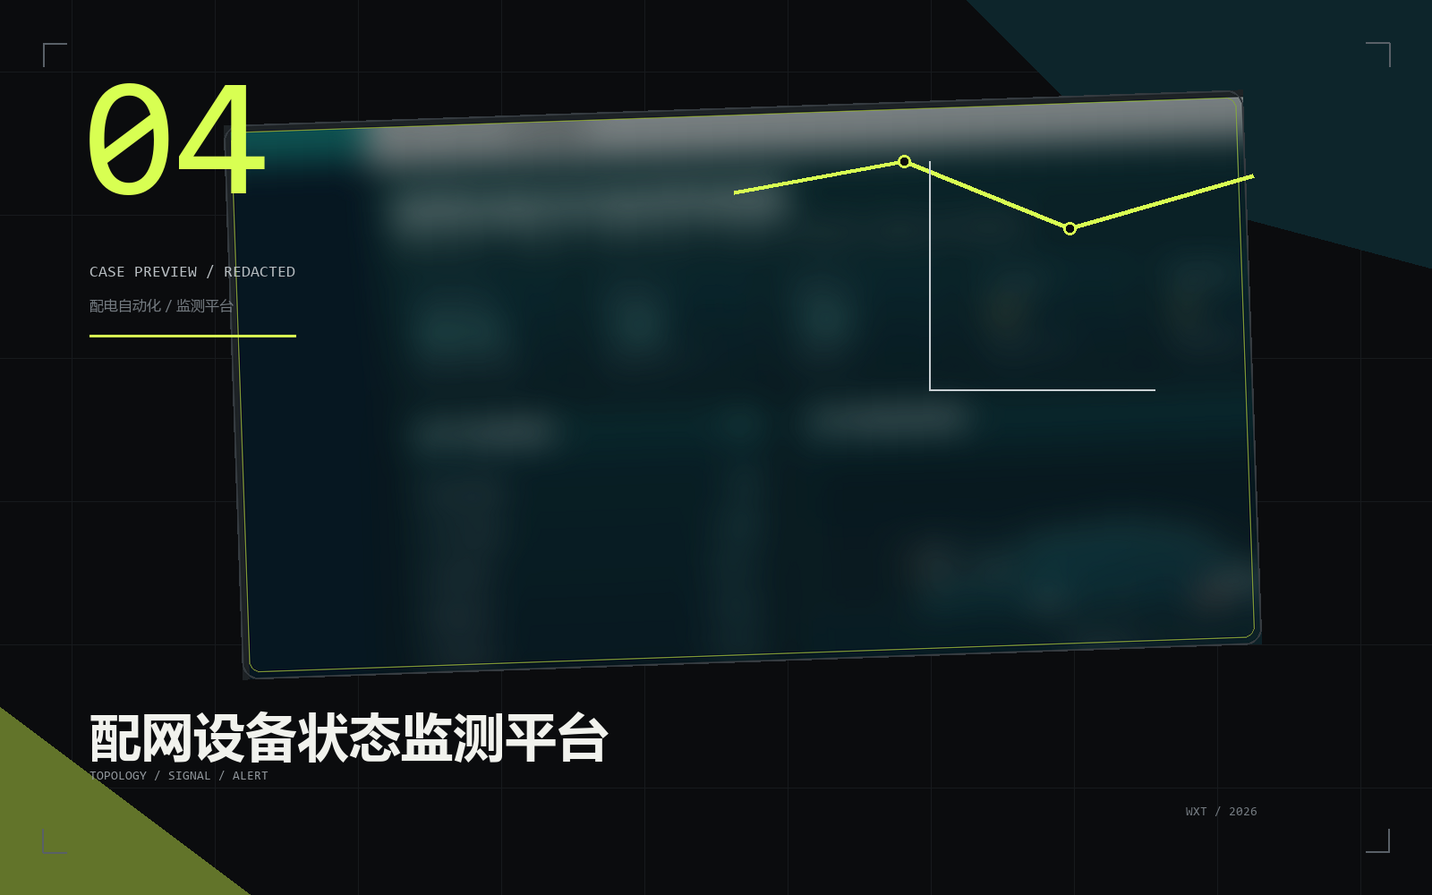
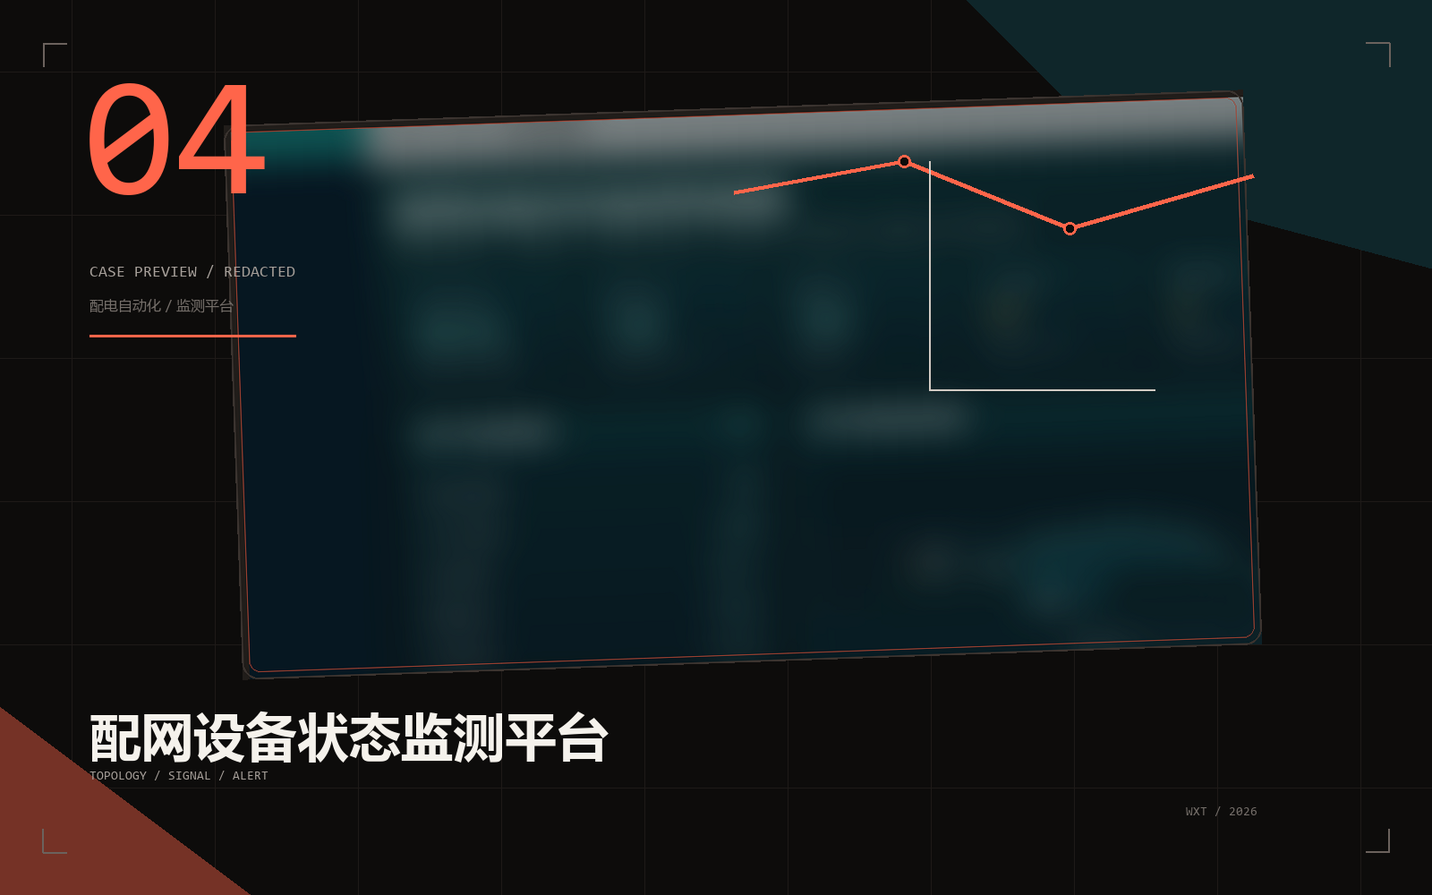
Refresh portfolio color system

diff --git a/public/portfolio/assets/index-D8gVBDSc.css b/public/portfolio/assets/index-D8gVBDSc.css
@@ -1,0 +1,1 @@
+@font-face{font-family:Source Han Sans SC;src:url(../fonts/source-han-sans-sc-subset.ttf)format("truetype");font-style:normal;font-weight:100 900;font-display:swap}:root{color:#f5f2ec;font-synthesis:none;text-rendering:optimizelegibility;-webkit-font-smoothing:antialiased;--page:#0d0c0b;--surface:#151311;--surface-high:#1e1a18;--ink:#f5f2ec;--muted:#a7a09a;--quiet:#746e69;--line:#302b28;--accent:#ff654a;--accent-hover:#ff806b;--accent-ink:#18100d;--accent-line:#69382f;--mono:"SFMono-Regular", "Cascadia Code", Consolas, monospace;--radius:8px;--page-width:1480px;--gutter:clamp(20px, 4vw, 64px);background:#0d0c0b;font-family:Source Han Sans SC,Avenir Next,PingFang SC,sans-serif}*{box-sizing:border-box}html{scroll-behavior:smooth;background:var(--page)}body{background:var(--page);min-width:320px;margin:0}body.modal-open{overflow:hidden}body,button,a{font:inherit}button{appearance:none;border:0}a{color:inherit;text-decoration:none}img{max-width:100%}button:focus-visible,a:focus-visible{outline:2px solid var(--accent);outline-offset:5px}::selection{color:var(--page);background:var(--accent)}.portfolio-shell,.portfolio-page{background:var(--page);min-height:100dvh}.portfolio-page{overflow:clip}.site-header,main>section,.site-footer{width:min(calc(100% - (var(--gutter) * 2)), var(--page-width));margin-inline:auto}.site-header{z-index:10;width:100%;height:72px;padding-inline:max(var(--gutter), calc((100vw - var(--page-width)) / 2));border-bottom:1px solid color-mix(in srgb, var(--line) 72%, transparent);background:color-mix(in srgb, var(--page) 86%, transparent);-webkit-backdrop-filter:blur(18px)saturate(115%);justify-content:space-between;align-items:center;display:flex;position:fixed;inset:0 0 auto}html.is-embedded .site-header{padding-right:max(calc(var(--gutter) + 58px), calc((100vw - var(--page-width)) / 2 + 58px))}.brand-mark{flex-direction:column;gap:5px;width:max-content;display:inline-flex}.brand-mark span{font-size:16px;font-weight:720;line-height:1}.brand-mark small,.hero-label,.project-info>div>span,.case-type,.case-section-label{font-family:var(--mono);letter-spacing:0}.brand-mark small{color:var(--quiet);font-size:9px}.desktop-nav{color:var(--muted);align-items:center;gap:28px;font-size:12px;display:flex}.desktop-nav>a{align-items:center;min-height:42px;transition:color .22s;display:inline-flex;position:relative}.desktop-nav>a:after{content:"";background:var(--accent);transform-origin:100%;height:1px;transition:transform .26s cubic-bezier(.16,1,.3,1);position:absolute;bottom:7px;left:0;right:0;transform:scaleX(0)}.desktop-nav>a:hover,.desktop-nav>a.is-active{color:var(--ink)}.desktop-nav>a:hover:after,.desktop-nav>a.is-active:after{transform-origin:0;transform:scaleX(1)}.header-icon-link{border:1px solid var(--line);border-radius:var(--radius);justify-content:center;width:42px}.header-icon-link:after{display:none}.header-icon-link:hover{border-color:var(--accent-line);color:var(--accent)!important}.menu-button{border-radius:var(--radius);width:44px;height:44px;color:var(--ink);cursor:pointer;background:0 0;place-items:center;padding:0;display:none}.mobile-menu{display:none}.hero-section{grid-template-columns:minmax(0,.94fr) minmax(460px,1.06fr);align-items:center;gap:clamp(56px,7vw,118px);min-height:100dvh;padding-top:118px;padding-bottom:46px;display:grid}.hero-copy{z-index:2;max-width:780px;position:relative}.hero-label{color:var(--muted);margin:0 0 24px;font-size:10px}.hero-section h1{letter-spacing:0;text-wrap:balance;margin:0;font-size:clamp(56px,5.5vw,94px);font-weight:720;line-height:.98}.hero-section h1 .hero-line{white-space:nowrap;color:var(--ink);display:inline-block}.hero-section h1 .hero-line strong{color:var(--accent);font-weight:inherit}.hero-summary{max-width:500px;color:var(--muted);text-wrap:pretty;margin:34px 0 0;font-size:clamp(16px,1.3vw,19px);line-height:1.75}.hero-actions{align-items:center;gap:26px;margin-top:36px;display:flex}.primary-link{border-radius:var(--radius);background:var(--accent);min-width:150px;min-height:50px;color:var(--accent-ink);justify-content:space-between;align-items:center;gap:18px;padding:0 19px;font-size:13px;font-weight:700;transition:transform .22s,background .22s;display:inline-flex}.primary-link:hover{background:var(--accent-hover);transform:translateY(-3px)}.primary-link:active{transform:translateY(-1px)scale(.985)}.text-link{min-height:44px;color:var(--muted);align-items:center;font-size:13px;transition:color .22s;display:inline-flex}.text-link:hover{color:var(--ink)}.hero-visual{perspective:1300px;isolation:isolate;min-height:min(640px,72dvh);position:relative}.hero-frame{border:1px solid var(--line);border-radius:var(--radius);background:var(--surface);position:absolute;overflow:hidden;box-shadow:0 34px 84px #00000047}.hero-frame img{object-fit:cover;width:100%;height:100%;display:block}.hero-frame-back{opacity:.56;width:76%;height:62%;top:7%;right:4%;transform:rotate(4deg)translateZ(-30px)}.hero-frame-back img{filter:grayscale(.5)brightness(.64);object-position:50% 42%}.hero-frame-front{width:82%;height:69%;transition:transform .62s cubic-bezier(.16,1,.3,1);bottom:4%;right:11%;transform:rotate(-3deg)}.hero-frame-front:hover{transform:translateY(-10px)rotate(-1deg)}.hero-frame-front img{object-position:50% 18%;filter:brightness(.84)saturate(.82);height:calc(100% - 78px)}.hero-frame-caption{background:var(--ink);height:78px;color:var(--page);flex-direction:column;justify-content:center;padding:15px 19px;display:flex}.hero-frame-caption span{font-family:var(--mono);color:var(--quiet);font-size:8px}.hero-frame-caption strong{letter-spacing:0;margin-top:4px;font-size:24px;line-height:1}.hero-visual-index{color:var(--quiet);font-family:var(--mono);font-size:9px;position:absolute;bottom:0;right:0}[data-enter]{opacity:0;animation:.76s cubic-bezier(.16,1,.3,1) forwards enter-up}[data-enter]:nth-child(2){animation-delay:80ms}[data-enter]:nth-child(3){animation-delay:.15s}[data-enter]:nth-child(4){animation-delay:.22s}.hero-visual[data-enter]{animation-delay:.17s}@keyframes enter-up{0%{opacity:0;transform:translateY(20px)}to{opacity:1;transform:translateY(0)}}.about-section{border-top:1px solid var(--line);border-bottom:1px solid var(--line);grid-template-columns:minmax(0,1.08fr) minmax(380px,.92fr);align-items:center;gap:clamp(64px,11vw,180px);min-height:100dvh;padding-block:clamp(120px,15vw,220px);display:grid;position:relative}.about-number{color:var(--surface-high);pointer-events:none;font-size:clamp(180px,27vw,420px);font-weight:800;line-height:1;position:absolute;top:5%;right:-2vw}.about-heading,.about-body{z-index:1;position:relative}.about-heading h2{letter-spacing:0;text-wrap:balance;margin:0;font-size:clamp(48px,5.6vw,86px);font-weight:650;line-height:1.08}.about-body{max-width:650px}.about-body>p{color:var(--muted);text-wrap:pretty;margin:0;font-size:16px;line-height:1.9}.about-body .about-lead{color:var(--ink);font-size:clamp(22px,2.1vw,32px);font-weight:540;line-height:1.55}.about-body .about-lead+p{margin-top:27px}.capability-list{border-top:1px solid var(--line);margin-top:48px}.capability-list>div{border-bottom:1px solid var(--line);grid-template-columns:54px 1fr;align-items:center;min-height:66px;display:grid}.capability-list span{color:var(--accent);font-family:var(--mono);font-size:10px}.capability-list strong{font-size:14px;font-weight:500}[data-reveal]{opacity:0;transition:opacity .76s,transform .76s cubic-bezier(.16,1,.3,1);transform:translateY(28px)}[data-reveal].is-visible{opacity:1;transform:translateY(0)}.projects-section{padding-top:clamp(112px,13vw,188px)}.projects-heading{margin-bottom:62px}.projects-heading h2{letter-spacing:0;margin:0;font-size:clamp(72px,11vw,172px);font-weight:720;line-height:.82}.projects-heading p{max-width:520px;color:var(--muted);margin:34px 0 0;font-size:15px;line-height:1.75}.project-group+.project-group{margin-top:86px}.project-group-heading{border-top:1px solid var(--line);min-height:38px;color:var(--ink);font-family:var(--mono);letter-spacing:0;text-transform:uppercase;justify-content:space-between;align-items:center;margin-bottom:26px;font-size:10px;display:flex}.project-group-heading small{color:var(--quiet);font-size:9px}.ui-reserve{border-bottom:1px solid var(--line);grid-template-columns:minmax(150px,.7fr) minmax(300px,1.35fr) minmax(180px,.7fr);align-items:end;gap:clamp(28px,5vw,78px);min-height:300px;padding:clamp(30px,4vw,58px) 0;display:grid}.ui-reserve-mark{color:var(--surface-high);font-family:var(--mono);font-size:clamp(104px,14vw,210px);font-weight:700;line-height:.72}.ui-reserve-copy>span{color:var(--accent);font-family:var(--mono);font-size:9px}.ui-reserve-copy h3{letter-spacing:0;text-wrap:pretty;max-width:620px;margin:15px 0 0;font-size:clamp(29px,3.6vw,52px);font-weight:600;line-height:1.12}.ui-reserve-copy p{max-width:560px;color:var(--muted);margin:20px 0 0;font-size:13px;line-height:1.75}.ui-reserve-fields{align-content:end;align-self:stretch;display:grid}.ui-reserve-fields span{border-bottom:1px solid var(--line);min-height:42px;color:var(--quiet);font-family:var(--mono);align-items:center;font-size:9px;display:flex}.projects-grid{grid-template-columns:repeat(12,minmax(0,1fr));align-items:start;gap:18px;display:grid}.project-card{min-width:0}.project-card-wide{grid-column:span 7}.project-card-standard{grid-column:span 5}.project-card-feature{grid-column:3/span 8;margin-top:42px}.project-card:nth-child(2){margin-top:72px}.project-card:nth-child(4){margin-top:70px}.project-card>button{border-radius:var(--radius);width:100%;color:var(--ink);text-align:left;cursor:pointer;background:0 0;padding:0;display:block}.project-image{aspect-ratio:1.6;border:1px solid var(--line);border-radius:var(--radius);background:var(--surface);position:relative;overflow:hidden}.project-image img{object-fit:cover;filter:saturate(.9)brightness(.9);width:100%;height:100%;transition:transform .7s cubic-bezier(.16,1,.3,1),filter .5s;display:block}.project-image-shade{pointer-events:none;background:linear-gradient(#0000 45%,#09080773);position:absolute;inset:0}.project-info{grid-template-columns:minmax(0,1fr) 44px;column-gap:22px;padding:20px 1px 42px;display:grid;position:relative}.project-info>div>span{color:var(--muted);font-size:9px;display:block}.project-info h3{letter-spacing:0;text-wrap:pretty;margin:9px 0 0;font-size:clamp(25px,2.7vw,39px);font-weight:600;line-height:1.1}.project-info p{max-width:560px;color:var(--muted);text-wrap:pretty;grid-column:1/2;margin:16px 0 0;font-size:13px;line-height:1.7}.project-arrow{border:1px solid var(--line);border-radius:var(--radius);place-items:center;width:42px;height:42px;transition:transform .28s,color .28s,border-color .28s,background .28s;display:grid}.project-card>button:hover .project-image img{filter:saturate()brightness();transform:scale(1.025)}.project-card>button:hover .project-arrow{color:var(--page);border-color:var(--accent);background:var(--accent);transform:translate(2px,-2px)}.project-card>button:active .project-arrow{transform:translate(1px,-1px)scale(.96)}.site-footer{border-top:1px solid var(--line);grid-template-columns:1fr auto 1fr;align-items:end;gap:28px;margin-top:110px;padding-block:36px 44px;display:grid}.site-footer p{color:var(--quiet);margin:0;font-size:11px}.site-footer>a{color:var(--muted);justify-self:end;align-items:center;gap:7px;font-size:12px;transition:color .22s;display:inline-flex}.site-footer>a:hover{color:var(--accent)}.case-study{z-index:30;background:var(--page);animation:.26s both case-fade;position:fixed;inset:0}.case-study-scroll{overscroll-behavior:contain;scroll-behavior:smooth;height:100dvh;overflow:hidden auto}.case-close{z-index:34;border:1px solid var(--line);border-radius:var(--radius);width:48px;height:48px;color:var(--ink);cursor:pointer;-webkit-backdrop-filter:blur(12px);backdrop-filter:blur(12px);background:#0d0c0be0;place-items:center;padding:0;transition:color .22s,border-color .22s,transform .22s,background .22s;display:grid;position:fixed;top:18px;right:22px}.case-close:hover{color:var(--page);border-color:var(--accent);background:var(--accent);transform:rotate(4deg)}html.is-embedded .case-close{right:78px}.case-hero{width:min(calc(100% - (var(--gutter) * 2)), var(--page-width));grid-template-columns:minmax(360px,.82fr) minmax(520px,1.18fr);align-items:center;gap:76px;min-height:100dvh;margin-inline:auto;padding:112px 0 72px;display:grid}.case-hero-copy{max-width:650px;animation:.62s cubic-bezier(.16,1,.3,1) both case-copy-in}.case-hero-meta{border-bottom:1px solid var(--line);color:var(--quiet);font-family:var(--mono);justify-content:space-between;gap:24px;padding-bottom:16px;font-size:9px;display:flex}.case-type{color:var(--accent);margin:50px 0 0;font-size:10px}.case-hero h2{letter-spacing:0;text-wrap:balance;max-width:720px;margin:18px 0 0;font-size:72px;font-weight:680;line-height:1.04}.case-description{max-width:580px;color:var(--muted);text-wrap:pretty;margin:30px 0 0;font-size:16px;line-height:1.85}.case-jump{border-bottom:1px solid var(--accent);width:max-content;min-height:48px;color:var(--ink);align-items:center;gap:18px;margin-top:38px;font-size:12px;transition:color .22s,gap .22s;display:inline-flex}.case-jump:hover{color:var(--accent);gap:24px}.case-hero-visual{aspect-ratio:1.6;border:1px solid var(--line);border-radius:var(--radius);background:var(--surface);margin:0;animation:.76s cubic-bezier(.16,1,.3,1) 80ms both case-visual-in;position:relative;overflow:hidden}.case-hero-visual img{object-fit:cover;filter:saturate(.9)brightness(.88);width:100%;height:100%;display:block}.case-hero-index{display:none}.case-content{width:min(calc(100% - (var(--gutter) * 2)), var(--page-width));margin-inline:auto}.case-content>section{border-top:1px solid var(--line);padding-block:132px}.case-section-label{min-height:38px;color:var(--quiet);grid-template-columns:74px 1fr;align-items:start;margin-bottom:72px;font-size:9px;display:grid}.case-section-label span{color:var(--accent)}.case-section-label p{margin:0}.case-overview-grid{grid-template-columns:minmax(0,1.04fr) minmax(380px,.96fr);gap:100px;display:grid}.case-overview-grid h3{letter-spacing:0;text-wrap:balance;max-width:700px;margin:0;font-size:46px;font-weight:580;line-height:1.3}.case-overview-grid>div>p{color:var(--muted);text-wrap:pretty;margin:0;font-size:16px;line-height:1.95}.case-facts{border-top:1px solid var(--line);margin:54px 0 0}.case-facts>div{border-bottom:1px solid var(--line);grid-template-columns:90px 1fr;align-items:center;gap:24px;min-height:58px;display:grid}.case-facts dt{color:var(--quiet);font-family:var(--mono);font-size:9px}.case-facts dd{color:var(--ink);margin:0;font-size:12px;line-height:1.6}.case-problem-list{border-top:1px solid var(--line)}.case-problem{border-bottom:1px solid var(--line);grid-template-columns:74px minmax(260px,.7fr) minmax(340px,1.3fr);align-items:center;gap:42px;min-height:156px;display:grid}.case-problem>span{color:var(--accent);font-family:var(--mono);font-size:11px}.case-problem h3{letter-spacing:0;margin:0;font-size:28px;font-weight:580;line-height:1.3}.case-problem p{max-width:720px;color:var(--muted);margin:0;font-size:14px;line-height:1.8}.case-highlight-grid{grid-template-columns:1.2fr .9fr 1.1fr;align-items:start;gap:24px;display:grid}.case-highlight{border-top:1px solid var(--line);border-bottom:1px solid var(--line);flex-direction:column;justify-content:space-between;min-height:330px;padding:25px 0 30px;display:flex}.case-highlight:nth-child(2){margin-top:78px}.case-highlight>span{color:var(--surface-high);font-family:var(--mono);font-size:82px;line-height:1}.case-highlight h3{color:var(--accent);letter-spacing:0;margin:0;font-size:25px;font-weight:600;line-height:1.25}.case-highlight p{max-width:390px;color:var(--muted);margin:15px 0 0;font-size:13px;line-height:1.8}.case-screen-list{gap:154px;display:grid}.case-screen{grid-template-columns:minmax(0,1.45fr) minmax(280px,.55fr);align-items:end;gap:66px;display:grid}.case-screen:nth-child(2n){grid-template-columns:minmax(280px,.55fr) minmax(0,1.45fr)}.case-screen:nth-child(2n) .case-screen-visual{grid-column:2}.case-screen:nth-child(2n) .case-screen-copy{grid-area:1/1}.case-screen-visual{aspect-ratio:16/9;border:1px solid var(--line);border-radius:var(--radius);background:var(--surface);margin:0;position:relative;overflow:hidden}.case-screen-visual img{object-fit:cover;width:100%;height:100%;display:block}.case-screen-visual figcaption{min-width:54px;color:var(--accent);font-family:var(--mono);text-align:center;-webkit-backdrop-filter:blur(8px);backdrop-filter:blur(8px);background:#0d0c0bc7;border:1px solid #f5f2ec38;border-radius:4px;padding:7px 9px;font-size:9px;position:absolute;bottom:12px;right:14px}.case-screen-copy{padding-bottom:18px}.case-screen-copy>span{color:var(--accent);font-family:var(--mono);font-size:9px}.case-screen-copy h3{letter-spacing:0;text-wrap:balance;margin:17px 0 0;font-size:34px;font-weight:600;line-height:1.3}.case-screen-copy p{color:var(--muted);text-wrap:pretty;margin:22px 0 0;font-size:14px;line-height:1.85}.case-project-nav{border-top:1px solid var(--line);grid-template-columns:1fr 1fr;margin-top:28px;display:grid}.case-project-nav button{border-bottom:1px solid var(--line);min-height:132px;color:var(--ink);cursor:pointer;background:0 0;align-items:center;gap:18px;padding:0 28px;transition:color .22s,background .22s;display:flex}.case-project-nav button:last-child{border-left:1px solid var(--line);justify-content:flex-end}.case-project-nav button:hover{color:var(--accent);background:var(--surface)}.case-project-nav span{font-size:13px}@keyframes case-fade{0%{opacity:0}to{opacity:1}}@keyframes case-copy-in{0%{opacity:0;transform:translateY(22px)}to{opacity:1;transform:translateY(0)}}@keyframes case-visual-in{0%{opacity:0;transform:translateY(28px)rotate(1.5deg)}to{opacity:1;transform:translateY(0)rotate(0)}}@media (width<=1080px){.hero-section{grid-template-columns:1fr;gap:52px;padding-top:148px;padding-bottom:90px}.hero-copy{max-width:850px}.hero-visual{width:min(100%,760px);min-height:570px;margin-left:auto}.about-section{grid-template-columns:1fr;align-content:center;gap:58px}.about-heading{max-width:820px}.about-body{margin-left:min(18vw,170px)}.project-card-wide,.project-card-standard{grid-column:span 6}.project-card-feature{grid-column:2/span 10}.case-hero{grid-template-columns:1fr;gap:58px;min-height:auto;padding-top:132px}.case-hero-copy{max-width:820px}.case-hero h2{max-width:850px;font-size:64px}.case-hero-visual{width:min(100%,880px);margin-left:auto}.case-overview-grid{grid-template-columns:1fr;gap:54px}.case-overview-grid>div{width:min(100%,720px);margin-left:auto}.case-problem{grid-template-columns:64px minmax(220px,.75fr) minmax(300px,1.25fr);gap:28px}.case-screen{grid-template-columns:minmax(0,1.25fr) minmax(260px,.75fr);gap:40px}.case-screen:nth-child(2n){grid-template-columns:minmax(260px,.75fr) minmax(0,1.25fr)}}@media (width<=720px){:root{--gutter:18px}.site-header{height:66px}.desktop-nav{display:none}.menu-button{display:grid}.mobile-menu{z-index:-1;padding:24px var(--gutter) 36px;border-bottom:1px solid var(--line);opacity:0;pointer-events:none;background:#0d0c0bfa;transition:opacity .22s,transform .3s cubic-bezier(.16,1,.3,1);display:grid;position:fixed;inset:66px 0 auto;transform:translateY(-16px)}.mobile-menu.is-open{opacity:1;pointer-events:auto;transform:translateY(0)}.mobile-menu a{border-bottom:1px solid var(--line);justify-content:space-between;align-items:center;min-height:58px;font-size:20px;font-weight:600;display:flex}.hero-section{gap:44px;min-height:100dvh;padding-top:112px;padding-bottom:62px}.hero-label{margin-bottom:18px;font-size:9px}.hero-section h1{font-size:43px;line-height:1.06}.hero-section h1 .hero-line{white-space:normal}.hero-section h1 .hero-line strong{display:block}.hero-summary{width:min(100%,330px);margin-top:24px;font-size:15px}.hero-actions{margin-top:27px}.hero-visual{min-height:360px}.hero-frame-back{width:78%;height:58%}.hero-frame-front{width:87%;height:68%;right:6%}.hero-frame-front img{height:calc(100% - 62px)}.hero-frame-caption{height:62px;padding:11px 14px}.hero-frame-caption strong{font-size:19px}.about-section{gap:43px;min-height:auto;padding-block:104px}.about-number{font-size:180px;top:11%}.about-heading h2{font-size:clamp(41px,12vw,56px)}.about-body{margin-left:0}.about-body .about-lead{font-size:21px}.about-body>p{font-size:14px}.capability-list{margin-top:38px}.projects-section{padding-top:106px}.projects-heading{margin-bottom:44px}.projects-heading h2{font-size:clamp(66px,20vw,100px)}.projects-heading p{margin-top:26px;font-size:14px}.project-group+.project-group{margin-top:58px}.project-group-heading{margin-bottom:18px}.ui-reserve{grid-template-columns:1fr;align-items:start;gap:32px;min-height:0;padding:26px 0 38px}.ui-reserve-mark{font-size:112px}.ui-reserve-copy h3{font-size:31px}.ui-reserve-fields{grid-template-columns:1fr 1fr;align-self:auto}.ui-reserve-fields span:nth-child(odd){border-right:1px solid var(--line)}.ui-reserve-fields span:nth-child(2n){padding-left:18px}.projects-grid{display:block}.project-card,.project-card:nth-child(n){margin-top:18px}.project-card:first-child{margin-top:0}.project-image{aspect-ratio:1.6}.project-info{padding-bottom:28px}.project-info h3{font-size:27px}.project-info p{font-size:12px}.site-footer{grid-template-columns:1fr auto;margin-top:70px}.site-footer p{display:none}.case-close,html.is-embedded .case-close{width:44px;height:44px;top:12px;right:14px}.case-hero{width:calc(100% - (var(--gutter) * 2));gap:42px;padding:92px 0 62px}.case-hero-meta{padding-right:54px}.case-type{margin-top:36px}.case-hero h2{margin-top:14px;font-size:42px;line-height:1.12}.case-description{margin-top:22px;font-size:14px}.case-jump{margin-top:26px}.case-hero-index{font-size:76px;top:-10px;left:10px}.case-content{width:calc(100% - (var(--gutter) * 2))}.case-content>section{padding-block:86px}.case-section-label{grid-template-columns:52px 1fr;margin-bottom:42px}.case-overview-grid h3{font-size:31px;line-height:1.38}.case-overview-grid>div>p{font-size:14px;line-height:1.85}.case-facts{margin-top:38px}.case-facts>div{grid-template-columns:76px 1fr;gap:18px;min-height:66px}.case-problem{grid-template-columns:42px 1fr;align-items:start;gap:10px;min-height:0;padding:28px 0 32px}.case-problem h3{font-size:22px}.case-problem p{grid-column:2;margin-top:4px;font-size:13px}.case-highlight-grid{grid-template-columns:1fr;gap:0}.case-highlight,.case-highlight:nth-child(2){min-height:220px;margin-top:0}.case-highlight>span{font-size:62px}.case-screen-list{gap:82px}.case-screen,.case-screen:nth-child(2n){grid-template-columns:1fr;gap:27px}.case-screen:nth-child(2n) .case-screen-visual,.case-screen:nth-child(2n) .case-screen-copy{grid-area:auto/1}.case-screen-copy{padding-bottom:0}.case-screen-copy h3{margin-top:12px;font-size:27px}.case-screen-copy p{margin-top:16px;font-size:13px}.case-project-nav{margin-top:0}.case-project-nav button{min-height:94px;padding:0 14px}}@media (prefers-reduced-motion:reduce){html{scroll-behavior:auto}*,:before,:after{transition-duration:.01ms!important;animation-duration:.01ms!important;animation-iteration-count:1!important}[data-enter],[data-reveal]{opacity:1;transform:none}}@media (prefers-reduced-transparency:reduce){.site-header,.case-close,.case-screen-visual figcaption{-webkit-backdrop-filter:none}.site-header{background:var(--page)}}

diff --git a/src/styles.css b/src/styles.css
@@ -358,11 +358,11 @@ button:focus-visible {
   width: min(1440px, calc(100vw - 44px));
   height: min(920px, calc(100dvh - 44px));
   overflow: hidden;
-  border: 1px solid rgb(241 242 237 / 18%);
+  border: 1px solid rgb(245 242 236 / 18%);
   border-radius: 8px;
-  background: #0b0c0e;
+  background: #0d0c0b;
   box-shadow: 0 42px 120px rgb(0 0 0 / 42%);
-  color: #f1f2ed;
+  color: #f5f2ec;
   transform: translateY(5vh) scale(.36);
   transform-origin: 50% 44%;
   transition: transform 760ms cubic-bezier(.16,.84,.24,1);
@@ -375,7 +375,7 @@ button:focus-visible {
   height: 100%;
   display: block;
   border: 0;
-  background: #0b0c0e;
+  background: #0d0c0b;
   opacity: 0;
   transition: opacity 420ms ease;
 }
@@ -390,8 +390,8 @@ button:focus-visible {
   place-content: center;
   justify-items: center;
   gap: 18px;
-  background: #0b0c0e;
-  color: #9b9fa4;
+  background: #0d0c0b;
+  color: #a7a09a;
   transition: opacity 260ms ease, visibility 260ms ease;
 }
 
@@ -399,7 +399,7 @@ button:focus-visible {
   width: 84px;
   height: 2px;
   overflow: hidden;
-  background: rgb(216 255 82 / 16%);
+  background: rgb(255 101 74 / 16%);
 }
 
 .portfolio-loading span::after {
@@ -407,7 +407,7 @@ button:focus-visible {
   display: block;
   width: 100%;
   height: 100%;
-  background: #d8ff52;
+  background: #ff654a;
   transform-origin: left;
   animation: portfolio-loading 1.1s cubic-bezier(.16, 1, .3, 1) infinite;
 }
@@ -423,10 +423,10 @@ button:focus-visible {
   width: 44px;
   height: 44px;
   padding: 0;
-  border: 1px solid rgb(241 242 237 / 22%);
+  border: 1px solid rgb(245 242 236 / 22%);
   border-radius: 8px;
-  background: rgb(11 12 14 / 78%);
-  color: #f1f2ed;
+  background: rgb(13 12 11 / 78%);
+  color: #f5f2ec;
   cursor: pointer;
   font-size: 24px;
   line-height: 1;
@@ -435,9 +435,9 @@ button:focus-visible {
 }
 
 .portfolio-close:hover {
-  border-color: #d8ff52;
-  background: #d8ff52;
-  color: #11130c;
+  border-color: #ff654a;
+  background: #ff654a;
+  color: #18100d;
   transform: rotate(5deg);
 }
 

diff --git a/public/portfolio/index.html b/public/portfolio/index.html
@@ -4,11 +4,11 @@
     <meta charset="UTF-8" />
     <meta name="viewport" content="width=device-width, initial-scale=1.0" />
     <meta name="description" content="王晓桐的产品交互设计作品集，关注复杂系统、交互原型与 AI 产品实验。" />
-    <meta name="theme-color" content="#0b0c0e" />
+    <meta name="theme-color" content="#0d0c0b" />
     <link rel="icon" type="image/svg+xml" href="./favicon.svg" />
     <title>王晓桐 / Product Interaction Designer</title>
-    <script type="module" crossorigin src="./assets/index-BjXEfHxE.js"></script>
-    <link rel="stylesheet" crossorigin href="./assets/index-BKB5molo.css">
+    <script type="module" crossorigin src="./assets/index-BMp8VPLD.js"></script>
+    <link rel="stylesheet" crossorigin href="./assets/index-D8gVBDSc.css">
   </head>
   <body>
     <div id="root"></div>
